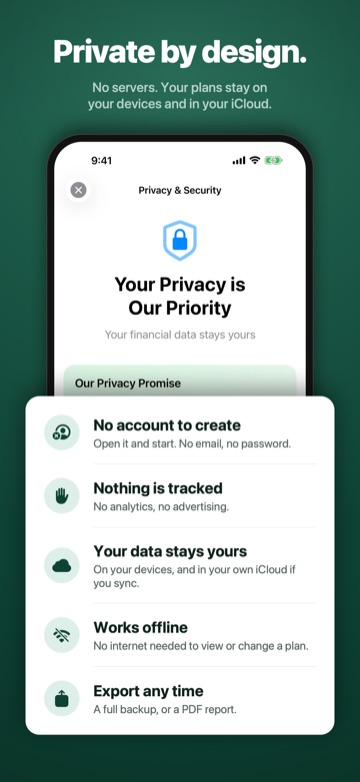
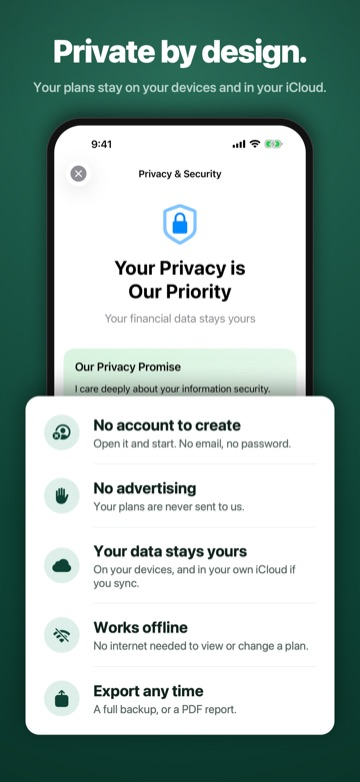
HeyCatch analytics, and the privacy policy that discloses it
Beaver FP 2.6 sends usage analytics to HeyCatch, and so does the site
from now on. The policy, terms and home page all said "no analytics";
this commit carries the script and the text that discloses it together,
because the policy describes the site's cookie and neither should go
live without the other.

The script: HeyCatch's web SDK (@heycatch/sdk 0.8.3, PostHog's JS
underneath) on the home, privacy, terms and 404 pages. GitHub Pages has
no redirect rules, so 404.html is what forwards HeyCatch's short links
(/a-/z, /0-/9) to the home page with campaign tags. serve.py answers
unknown paths with 404.html, as Pages does, so that works locally too.

The policy (Last Updated October 17, 2026), with an entry in section 8:
- Section 1: the app's analytics, item by item (screens, opens, Quick
  Plan and tour, subscription; device, OS, app version, screen size,
  language, time zone, network; approximate city and country from the
  IP address; a random install ID), what is never sent, HeyCatch and
  PostHog in the US, kept while Beaver FP uses HeyCatch plus two months.
  The website's own analytics too: pages, scrolling, clicks, referrer
  and campaign, IP and location, and a random ID kept in a cookie and
  local storage for up to a year.
- Sections 5, 6, 7 and 9: HeyCatch as a service, no off switch in the
  app (deleting it stops the analytics), why one person's events cannot
  be picked out, and that the analytics leave Canada.
[…]

diff --git a/privacy.html b/privacy.html
@@ -3,13 +3,25 @@
 <head>
     <meta charset="UTF-8">
     <meta name="viewport" content="width=device-width, initial-scale=1.0">
-    <meta name="description" content="Privacy Policy for Beaver FP - Your financial data lives on your device and can sync through your own iCloud account. No Beaver FP servers, no accounts, no tracking.">
+    <meta name="description" content="Privacy Policy for Beaver FP - Your financial data lives on your device and can sync through your own iCloud account. No Beaver FP servers, no accounts, no advertising.">
     <title>Privacy Policy - Beaver FP</title>
     <meta name="theme-color" content="#0D4234" media="(prefers-color-scheme: light)">
     <meta name="theme-color" content="#0b1512" media="(prefers-color-scheme: dark)">
     <link rel="icon" type="image/png" href="images/favicon.png">
     <link rel="canonical" href="https://beaverfp.com/privacy">
     <link rel="stylesheet" href="style.css?v=2.5">
+    <!-- HeyCatch analytics. Pinned to the version on npm's `latest` dist-tag
+         (never a -dev/-beta prerelease). requestBatching is off because every
+         navigation here is a full page load, which would drop a pending batch. -->
+    <script type="module">
+        import { analytics } from 'https://esm.sh/@heycatch/sdk@0.8.3';
+
+        analytics.init({
+            projectKey: 'hck_pk_d8FYfxZb_djxFPNjbZvOiR36pex7quyL',
+            install: { framework: 'web', agent: 'claude-code' },
+            requestBatching: false,
+        });
+    </script>
 </head>
 <body>
     <header>
@@ -31,21 +43,30 @@
     <main>
         <div class="legal-page">
             <h1>Privacy Policy</h1>
-            <p class="last-updated">Last Updated: August 13, 2026</p>
+            <p class="last-updated">Last Updated: October 17, 2026</p>
 
             <div class="highlight-box">
                 <h2>Your Privacy is Our Priority</h2>
-                <p><strong>Your financial data stays yours.</strong> Beaver FP has no servers, no accounts and no analytics. Your plan is stored on your device and, with a subscription, syncs to your other Apple devices through your own iCloud account - we never see it, and we have no way to.</p>
+                <p><strong>Your financial data stays yours.</strong> Beaver FP has no servers and no accounts. Your plan is stored on your device and, with a subscription, syncs to your other Apple devices through your own iCloud account - we never see it, and we have no way to. The app does send usage analytics, which never include your plan; section 1 says exactly what they contain.</p>
             </div>
 
             <h2>1. Information Collection and Storage</h2>
             <p>Beaver FP operates on a fundamentally different model than most apps:</p>
             <ul>
-                <li><strong>No Data Collection:</strong> We do not collect, store, or transmit any personal or financial information. There is no Beaver FP account to create and no back end to send your data to.</li>
+                <li><strong>Your Plan Is Never Collected:</strong> We do not collect, store, or transmit your plans, or any personal or financial information you enter. There is no Beaver FP account to create and no back end to send your plan to.</li>
                 <li><strong>Stored on Your Device:</strong> Your financial plans, personal information, and calculations are stored on your device.</li>
                 <li><strong>Synced Through Your Own iCloud:</strong> With a subscription and an iCloud account, your plan also syncs to your other Apple devices using Apple's CloudKit, in the <strong>private database of your own Apple Account</strong>. It is your iCloud storage, under your Apple Account - see section 3.</li>
                 <li><strong>No Beaver FP Servers:</strong> We do not operate servers or databases. Your data never passes through infrastructure we control, and we cannot access, view, or recover it.</li>
-                <li><strong>No Analytics:</strong> We do not use analytics, telemetry, or tracking of any kind.</li>
+                <li><strong>Usage Analytics:</strong> To learn which parts of the app are used, the app sends usage events to HeyCatch, Inc., an analytics service in the United States, which stores them with PostHog's US cloud. The events contain:
+                    <ul>
+                        <li>which screens you open, when the app opens and closes, whether you finish Quick Plan or the guided tour, and which subscription you buy and whether it began with the free trial</li>
+                        <li>your device's model, operating system, app version, screen size, language, time zone, and whether it is on Wi-Fi or cellular</li>
+                        <li>a random ID that the app creates when it is installed, so events from the same device can be counted together</li>
+                        <li>your internet (IP) address, which reaches HeyCatch with every request. HeyCatch uses it to look up your approximate city and country.</li>
+                    </ul>
+                    The events never contain your plans, any amount, age or name you enter, your email, or your Apple Account. The random ID is not connected to any of those, and we do not try to connect it. The data is not sold, not used for advertising, and not shared with data brokers. HeyCatch keeps it while Beaver FP uses its service, and for two months after.</li>
+                <li><strong>Website Analytics:</strong> beaverfp.com also uses HeyCatch. When you visit, it records the pages you view, how far you scroll, the links and buttons you click, the site or campaign link that sent you, your browser, device type and screen size, and your IP address, from which HeyCatch looks up your approximate city and country. It stores a random ID in a cookie and in your browser's local storage for up to a year, so a later visit from the same browser counts as the same visitor. It does not record what you type, and it is not used for advertising. Deleting this site's cookies and data in your browser removes the ID.</li>
+                <li><strong>No Advertising or Tracking:</strong> We do not use advertising, and we do not link app or website data with data from other companies' apps or websites.</li>
             </ul>
 
             <h2>2. How Your Data is Protected</h2>
@@ -53,7 +74,7 @@
             <h3>On-Device Architecture</h3>
             <p>Your data is stored using Apple's secure storage systems on your device, and synced only through Apple's iCloud. This architecture protects your privacy because:</p>
             <ul>
-                <li><strong>Nothing for Us to Breach:</strong> There is no Beaver FP database to attack, because we hold no copy of your data. We cannot lose what we never have.</li>
+                <li><strong>Nothing for Us to Breach:</strong> There is no Beaver FP database to attack, because we hold no copy of your plan. We cannot lose what we never have.</li>
                 <li><strong>No Third Parties:</strong> Your plan travels between your own devices and your own iCloud account, and nowhere else. It is never sold, shared, or handed to an advertiser, data broker, or analytics provider.</li>
                 <li><strong>Complete Control:</strong> You decide whether to sync at all, and when to delete or export your data.</li>
                 <li><strong>Works Offline:</strong> No internet connection is required to build or view your financial plans. If you are offline, your device catches up the next time it connects.</li>
@@ -91,13 +112,14 @@
             </ul>
 
             <h2>5. Third-Party Services</h2>
-            <p>Beaver FP integrates with the following Apple services:</p>
+            <p>Beaver FP uses the following services:</p>
             <ul>
                 <li><strong>iCloud / CloudKit:</strong> For syncing your plan between your own devices, in your own Apple Account, as described in section 3. Subject to Apple's Privacy Policy.</li>
                 <li><strong>Apple App Store:</strong> For app distribution and updates. Subject to Apple's Privacy Policy.</li>
                 <li><strong>StoreKit (In-App Purchases):</strong> For subscription management. Apple processes all payment information. We never see your credit card or payment details.</li>
+                <li><strong>HeyCatch (Usage Analytics):</strong> Receives the usage events described in section 1, from the app and from this website, and stores them with PostHog in the United States. Subject to HeyCatch's privacy policy at <a href="https://heycatch.ai/privacy" target="_blank" rel="noopener">heycatch.ai/privacy</a>.</li>
             </ul>
-            <p>We do not integrate with any third-party analytics, advertising, or tracking services.</p>
+            <p>We do not use any advertising or tracking services, and we share no data with data brokers.</p>
 
             <h2>6. Your Data Rights</h2>
             <p>You have complete control over your data:</p>
@@ -106,11 +128,12 @@
                 <li><strong>Right to Export:</strong> You can export your plans in standard formats for portability.</li>
                 <li><strong>Right to Privacy:</strong> We never ask for unnecessary permissions or data.</li>
                 <li><strong>Right to Choose:</strong> Sync is a feature, not a requirement. Turn it off and Beaver FP is a local-only app again.</li>
-                <li><strong>Right to Transparency:</strong> When the way Beaver FP handles your data changes - as it did when iCloud sync arrived in version 2.1 - we update this policy and say what changed. What will not change is that we hold no copy of your data and have no way to see it.</li>
+                <li><strong>Right to Transparency:</strong> When the way Beaver FP handles data changes, as it did when iCloud sync arrived in version 2.1 and usage analytics arrived in version 2.6, we update this policy and say what changed. What will not change is that we hold no copy of your plan and have no way to see it.</li>
+                <li><strong>Usage Analytics:</strong> The app has no setting to turn usage analytics off; deleting the app stops them. For questions, email <a href="mailto:support@beaverfp.com">support@beaverfp.com</a>. The random ID is not shown in the app and is not connected to you, so we cannot pick out one person's events; we can tell you what the events contain.</li>
             </ul>
 
             <h2>7. Children's Privacy</h2>
-            <p>Beaver FP is not directed to children under 13. We do not knowingly collect any information from children - we collect no information from anyone. Because data is stored on the device and in the account holder's own iCloud, parents retain complete control over their child's use of the app.</p>
+            <p>Beaver FP is not directed to children under 13. We do not knowingly collect any information from children. The only data the app sends is the usage analytics in section 1, which contain no names, contact details or plan information. Because plans are stored on the device and in the account holder's own iCloud, parents retain complete control over their child's use of the app.</p>
 
             <h2>8. Changes to This Privacy Policy</h2>
             <p>We may update this Privacy Policy from time to time. We will notify you of any material changes by:</p>
@@ -119,11 +142,12 @@
                 <li>Updating the "Last Updated" date</li>
                 <li>Providing notice within the app if changes are material</li>
             </ul>
+            <p><strong>October 17, 2026:</strong> Updated for Beaver FP 2.6, which sends usage analytics to HeyCatch, and for the analytics on this website. Earlier versions of this policy said Beaver FP used no analytics, which is no longer accurate. Your plan is still never sent to us. Sections 1, 2, 5, 6, 7 and 9 changed.</p>
             <p><strong>August 13, 2026:</strong> Updated for Beaver FP 2.1, which added iCloud sync between your own devices. Earlier versions of this policy described the app as local-only, which is no longer accurate by default. Sections 1, 2, 3 and 9 changed.</p>
             <p>Your continued use of Beaver FP after changes constitutes acceptance of the updated policy.</p>
 
             <h2>9. International Users</h2>
-            <p>We transfer no data internationally, because we receive no data at all.</p>
+            <p>Your plan is never transferred to us. The usage analytics described in section 1 are processed and stored in the United States by HeyCatch and PostHog, so they leave Canada.</p>
             <p>If iCloud sync is on, your plan is stored in your own iCloud account on Apple's infrastructure. Apple operates that infrastructure globally, so data associated with your Apple Account may be stored or processed outside your own country, including outside Canada. That storage is governed by your agreement with Apple, not by us. If you would rather your plan never leave your device, turn sync off in Beaver FP's settings.</p>
 
             <h2>10. Data Security Best Practices</h2>

diff --git a/index.html b/index.html
@@ -3,7 +3,7 @@
 <head>
     <meta charset="UTF-8">
     <meta name="viewport" content="width=device-width, initial-scale=1.0">
-    <meta name="description" content="Beaver FP is retirement planning for Canadians, and nothing else. Quick Plan lays out your whole retirement in seven short steps — CPP, OAS, TFSA, RRSP and full federal + provincial tax — then Financial Insights shows the changes worth making, each priced in today's dollars. No account, no servers, no tracking.">
+    <meta name="description" content="Beaver FP is retirement planning for Canadians, and nothing else. Quick Plan lays out your whole retirement in seven short steps — CPP, OAS, TFSA, RRSP and full federal + provincial tax — then Financial Insights shows the changes worth making, each priced in today's dollars. No account, no ads.">
     <meta name="theme-color" content="#0D4234" media="(prefers-color-scheme: light)">
     <meta name="theme-color" content="#0b1512" media="(prefers-color-scheme: dark)">
     <title>Beaver FP — Canadian Retirement Planning, in Minutes</title>
@@ -14,6 +14,18 @@
          with each release. Pages caches them for 4 hours but the HTML for 10
          minutes, so without it returning visitors get new HTML with old CSS. -->
     <link rel="stylesheet" href="style.css?v=2.5">
+    <!-- HeyCatch analytics. Pinned to the version on npm's `latest` dist-tag
+         (never a -dev/-beta prerelease). requestBatching is off because every
+         navigation here is a full page load, which would drop a pending batch. -->
+    <script type="module">
+        import { analytics } from 'https://esm.sh/@heycatch/sdk@0.8.3';
+
+        analytics.init({
+            projectKey: 'hck_pk_d8FYfxZb_djxFPNjbZvOiR36pex7quyL',
+            install: { framework: 'web', agent: 'claude-code' },
+            requestBatching: false,
+        });
+    </script>
 
     <!-- Open Graph -->
     <meta property="og:title" content="Beaver FP — Canadian Retirement Planning, in Minutes">
@@ -84,7 +96,7 @@
         {
           "@type": "Question",
           "name": "Is my data secure?",
-          "acceptedAnswer": { "@type": "Answer", "text": "Your financial data is stored on your device and, with a subscription, syncs to your other Apple devices through the private database of your own iCloud account. There are no Beaver FP servers, no accounts and no data collection, so we have no way to see your plan. Syncing comes with every subscription — sync is then on by default when you are signed in to iCloud, and you can turn it off." }
+          "acceptedAnswer": { "@type": "Answer", "text": "Your financial data is stored on your device and, with a subscription, syncs to your other Apple devices through the private database of your own iCloud account. There are no Beaver FP servers and no accounts, so we have no way to see your plan. The app sends usage analytics, which never include it. Syncing comes with every subscription — sync is then on by default when you are signed in to iCloud, and you can turn it off." }
         },
         {
           "@type": "Question",
@@ -186,7 +198,7 @@
                     </li>
                     <li>
                         <svg class="icon" aria-hidden="true"><use href="#i-lock"/></svg>
-                        No account, no tracking. Your plan stays on your devices and in your own iCloud.
+                        No account, no ads. Your plan stays on your devices and in your own iCloud.
                     </li>
                 </ul>
             </div>
@@ -614,7 +626,7 @@
                 <h2>Your finances stay yours</h2>
                 <ul class="privacy-points">
                     <li>No account to create</li>
-                    <li>No analytics or ads</li>
+                    <li>No ads</li>
                     <li>Works offline</li>
                     <li>Your devices, your own iCloud</li>
                 </ul>
@@ -622,6 +634,7 @@
                     There is no Beaver FP server. Your plan is stored on your device and, with a
                     subscription, syncs to your other Apple devices through the private database of your
                     own iCloud account. We never see it, because there is nowhere for it to reach us.
+                    The app does send usage analytics, which never include your plan.
                     Prefer it stayed on one device? Turn sync off.
                 </p>
                 <a href="/privacy" class="text-link">Read the privacy policy →</a>
@@ -707,7 +720,7 @@
                     <button type="button" class="shot-button">
                         <img src="images/screenshots/store-10-privacy.jpg" srcset="images/screenshots/store-10-privacy.jpg 360w, images/screenshots/store-10-privacy@2x.jpg 720w" data-full="images/screenshots/store-10-privacy@2x.jpg"
                              sizes="(max-width: 620px) 64vw, 250px"
-                             alt="Private by design. No servers. Your plans stay on your devices and in your iCloud. The Privacy &amp; Security screen, beside five points: no account to create, nothing is tracked, your data stays yours, works offline, export any time." loading="lazy" width="360" height="782">
+                             alt="Private by design. Your plans stay on your devices and in your iCloud. The Privacy &amp; Security screen, beside five points: no account to create, no advertising, your data stays yours, works offline, export any time." loading="lazy" width="360" height="782">
                     </button>
                 </li>
         </ul>
@@ -770,7 +783,7 @@
                         <span class="faq-icon" aria-hidden="true">+</span>
                     </button>
                     <div class="faq-answer">
-                        <p>Your financial data is stored on your device and, with a subscription, syncs to your other Apple devices through the private database of your own iCloud account — your storage, under your Apple Account, which Apple doesn&rsquo;t let developers read. There are no Beaver FP servers, no accounts and no data collection, so we never see your information. Syncing comes with every subscription — sync is then on by default when you&rsquo;re signed in to iCloud; turn it off and Beaver FP stays local to the device you&rsquo;re on.</p>
+                        <p>Your financial data is stored on your device and, with a subscription, syncs to your other Apple devices through the private database of your own iCloud account — your storage, under your Apple Account, which Apple doesn&rsquo;t let developers read. There are no Beaver FP servers and no accounts, so we never see your plan. The app sends usage analytics, which never include it. Syncing comes with every subscription — sync is then on by default when you&rsquo;re signed in to iCloud; turn it off and Beaver FP stays local to the device you&rsquo;re on.</p>
                     </div>
                 </div>
                 <div class="faq-item">

diff --git a/404.html b/404.html
@@ -1,0 +1,78 @@
+<!DOCTYPE html>
+<html lang="en">
+<head>
+    <meta charset="UTF-8">
+    <meta name="viewport" content="width=device-width, initial-scale=1.0">
+    <meta name="robots" content="noindex">
+    <title>Page Not Found - Beaver FP</title>
+    <meta name="theme-color" content="#0D4234" media="(prefers-color-scheme: light)">
+    <meta name="theme-color" content="#0b1512" media="(prefers-color-scheme: dark)">
+    <!-- Pages serves this file at whatever path was requested, so every URL
+         here is root-relative. -->
+    <link rel="icon" type="image/png" href="/images/favicon.png">
+    <link rel="stylesheet" href="/style.css?v=2.5">
+    <!-- HeyCatch analytics. GitHub Pages has no redirect rules, so this page is
+         what forwards the HeyCatch short links (/a-/z, /0-/9): the SDK sends
+         them on to /?utm_source=heycatch&utm_campaign=<char> as it loads.
+         Keep it in step with the copy in index.html. -->
+    <script type="module">
+        import { analytics } from 'https://esm.sh/@heycatch/sdk@0.8.3';
+
+        analytics.init({
+            projectKey: 'hck_pk_d8FYfxZb_djxFPNjbZvOiR36pex7quyL',
+            install: { framework: 'web', agent: 'claude-code' },
+            requestBatching: false,
+        });
+    </script>
+</head>
+<body>
+    <header>
+        <div class="header-content">
+            <a href="/" class="logo" aria-label="Beaver FP home">
+                <picture>
+                    <source srcset="/images/brand/lockup-on-dark.png" media="(prefers-color-scheme: dark)">
+                    <img src="/images/brand/lockup-on-light.png" alt="Beaver FP" class="logo-image" width="160" height="40">
+                </picture>
+            </a>
+            <nav aria-label="Primary">
+                <a href="/">Home</a>
+                <a href="/privacy">Privacy</a>
+                <a href="/terms">Terms</a>
+            </nav>
+        </div>
+    </header>
+
+    <main>
+        <div class="legal-page">
+            <h1>Page not found</h1>
+            <p>There's nothing at this address. It may have moved, or the link may have a typo.</p>
+            <p><a href="/">Go to the Beaver FP home page</a></p>
+        </div>
+    </main>
+
+    <footer>
+        <div class="footer-content">
+            <div class="footer-section footer-brand">
+                <img src="/images/brand/lockup-on-dark.png" alt="Beaver FP" class="footer-logo">
+                <p>Canadian retirement planning, and nothing else. Designed with your privacy in mind.</p>
+            </div>
+            <div class="footer-section">
+                <h4>Legal</h4>
+                <ul>
+                    <li><a href="/privacy">Privacy Policy</a></li>
+                    <li><a href="/terms">Terms of Service</a></li>
+                </ul>
+            </div>
+            <div class="footer-section">
+                <h4>Contact</h4>
+                <ul>
+                    <li>Email: <a href="mailto:support@beaverfp.com">support@beaverfp.com</a></li>
+                </ul>
+            </div>
+        </div>
+        <div class="footer-bottom">
+            <p>&copy; 2026 Rob Armstrong - All Rights Reserved</p>
+        </div>
+    </footer>
+</body>
+</html>

diff --git a/terms.html b/terms.html
@@ -10,6 +10,18 @@
     <link rel="icon" type="image/png" href="images/favicon.png">
     <link rel="canonical" href="https://beaverfp.com/terms">
     <link rel="stylesheet" href="style.css?v=2.5">
+    <!-- HeyCatch analytics. Pinned to the version on npm's `latest` dist-tag
+         (never a -dev/-beta prerelease). requestBatching is off because every
+         navigation here is a full page load, which would drop a pending batch. -->
+    <script type="module">
+        import { analytics } from 'https://esm.sh/@heycatch/sdk@0.8.3';
+
+        analytics.init({
+            projectKey: 'hck_pk_d8FYfxZb_djxFPNjbZvOiR36pex7quyL',
+            install: { framework: 'web', agent: 'claude-code' },
+            requestBatching: false,
+        });
+    </script>
 </head>
 <body>
     <header>
@@ -31,7 +43,7 @@
     <main>
         <div class="legal-page">
             <h1>Terms of Service</h1>
-            <p class="last-updated">Last Updated: August 13, 2026</p>
+            <p class="last-updated">Last Updated: October 17, 2026</p>
 
             <div class="highlight-box">
                 <p><strong>Important:</strong> Please read these Terms of Service carefully before using Beaver FP. By downloading, installing, or using the app, you agree to be bound by these terms.</p>
@@ -80,6 +92,7 @@
             <p>Data you enter into Beaver FP is stored on your device and, with a subscription and an iCloud account, synced to your other Apple devices through your own Apple Account using Apple's CloudKit:</p>
             <ul>
                 <li><strong>No Beaver FP Servers:</strong> We do not maintain servers or cloud databases. Your data never passes through infrastructure we control, and we cannot access, view, or recover it.</li>
+                <li><strong>Usage Analytics:</strong> The App sends usage analytics to HeyCatch, an analytics service. They never include the data you enter. Our <a href="/privacy">Privacy Policy</a> lists what they contain.</li>
                 <li><strong>Your iCloud Account:</strong> Sync writes to the private database of your own Apple Account, not to any account or storage of ours. Your use of iCloud is governed by your agreement with Apple, and Apple's terms, storage limits and service availability apply to it.</li>
                 <li><strong>Sync Requires a Subscription:</strong> Syncing across devices is part of a paid subscription. With one, sync is on by default when you are signed in to iCloud; without one, your plans stay on the device you are using. You can turn sync off in the App's settings at any time.</li>
                 <li><strong>If a Subscription Ends:</strong> Syncing stops. Nothing is deleted - the plans already on your devices and in your iCloud stay exactly where they are, and syncing resumes if you subscribe again.</li>

diff --git a/serve.py b/serve.py
@@ -31,6 +31,20 @@ class CleanURLHandler(http.server.SimpleHTTPRequestHandler):
                 return local + ".html"
         return local
 
+    def send_error(self, code, message=None, explain=None):
+        # Like GitHub Pages, answer unknown paths with 404.html (still a 404).
+        page = os.path.join(ROOT, "404.html")
+        if code != 404 or not os.path.exists(page):
+            return super().send_error(code, message, explain)
+        with open(page, "rb") as f:
+            body = f.read()
+        self.send_response(404)
+        self.send_header("Content-Type", "text/html; charset=utf-8")
+        self.send_header("Content-Length", str(len(body)))
+        self.end_headers()
+        if self.command != "HEAD":
+            self.wfile.write(body)
+
     def end_headers(self):
         # Disable caching so edits show up immediately on refresh.
         self.send_header("Cache-Control", "no-store, must-revalidate")

diff --git a/README.md b/README.md
@@ -16,6 +16,7 @@ beaverfp-website/
 ├── index.html          # Homepage
 ├── privacy.html        # Privacy Policy
 ├── terms.html          # Terms of Service
+├── 404.html            # Not-found page; also forwards HeyCatch short links (/a-/z, /0-/9)
 ├── style.css           # Shared stylesheet (light + dark)
 ├── script.js           # FAQ accordion, demo video controls, screenshot lightbox
 ├── serve.py            # Local preview server (clean URLs, like GitHub Pages)
